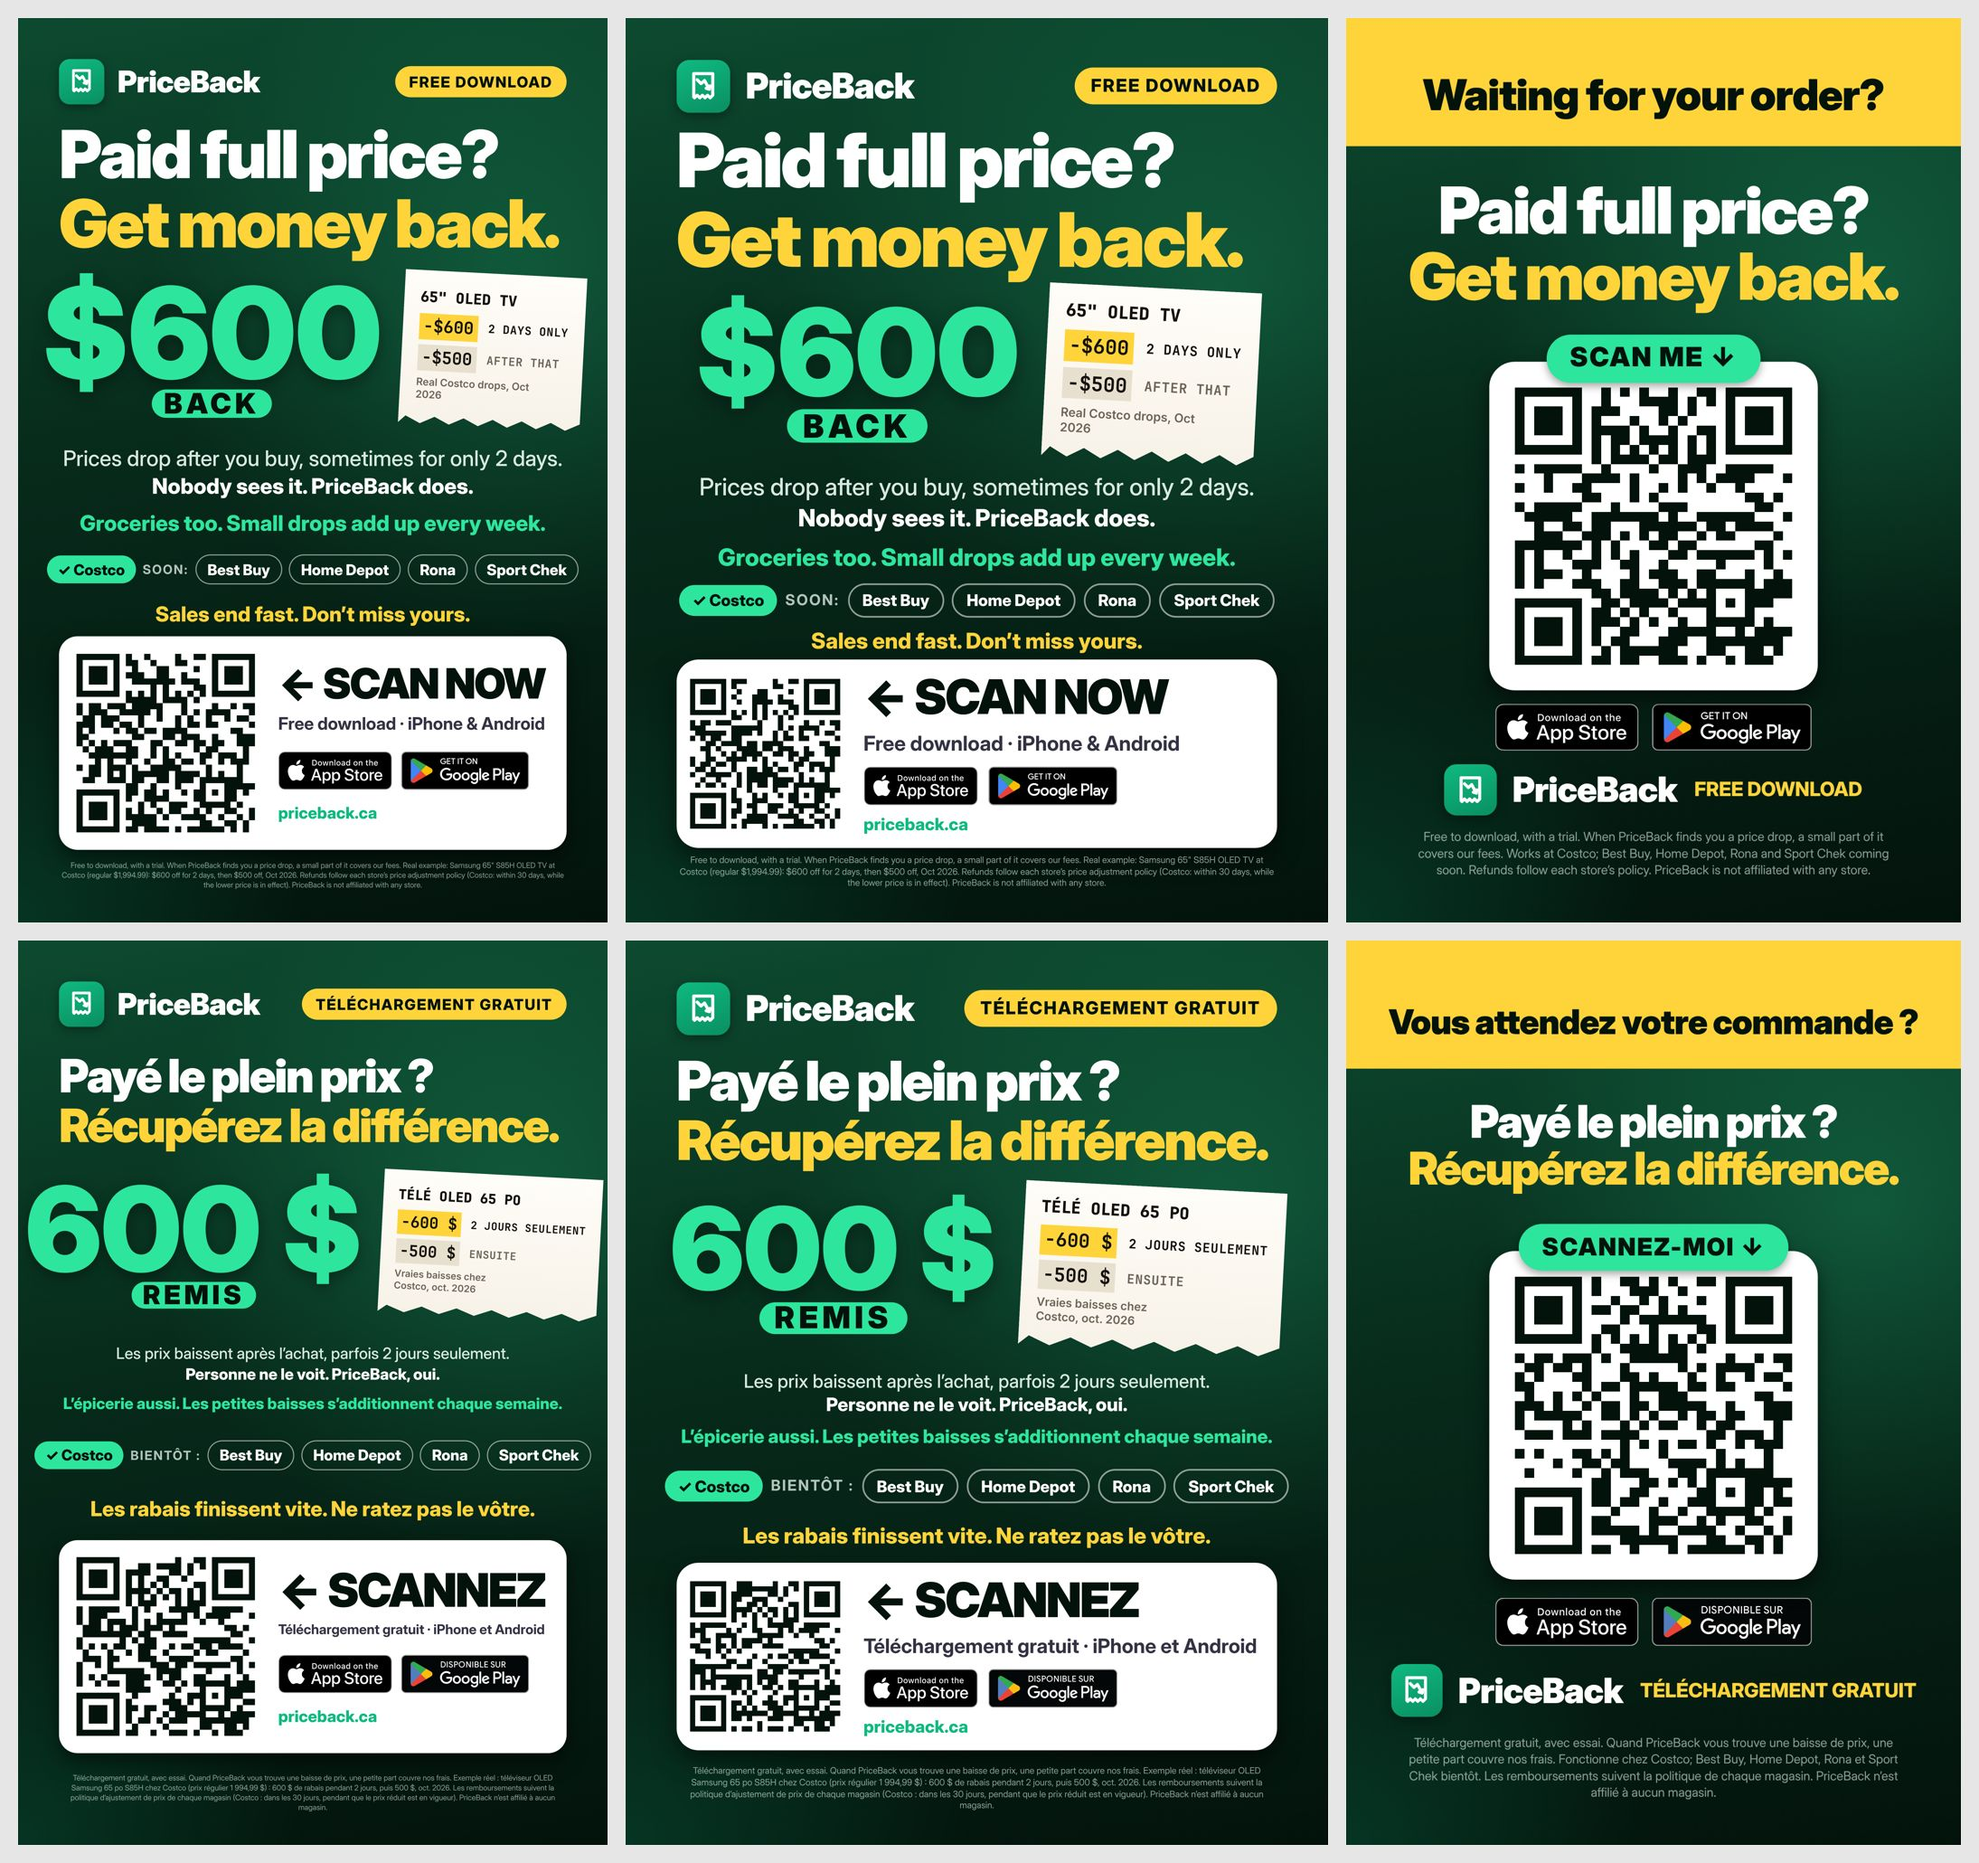
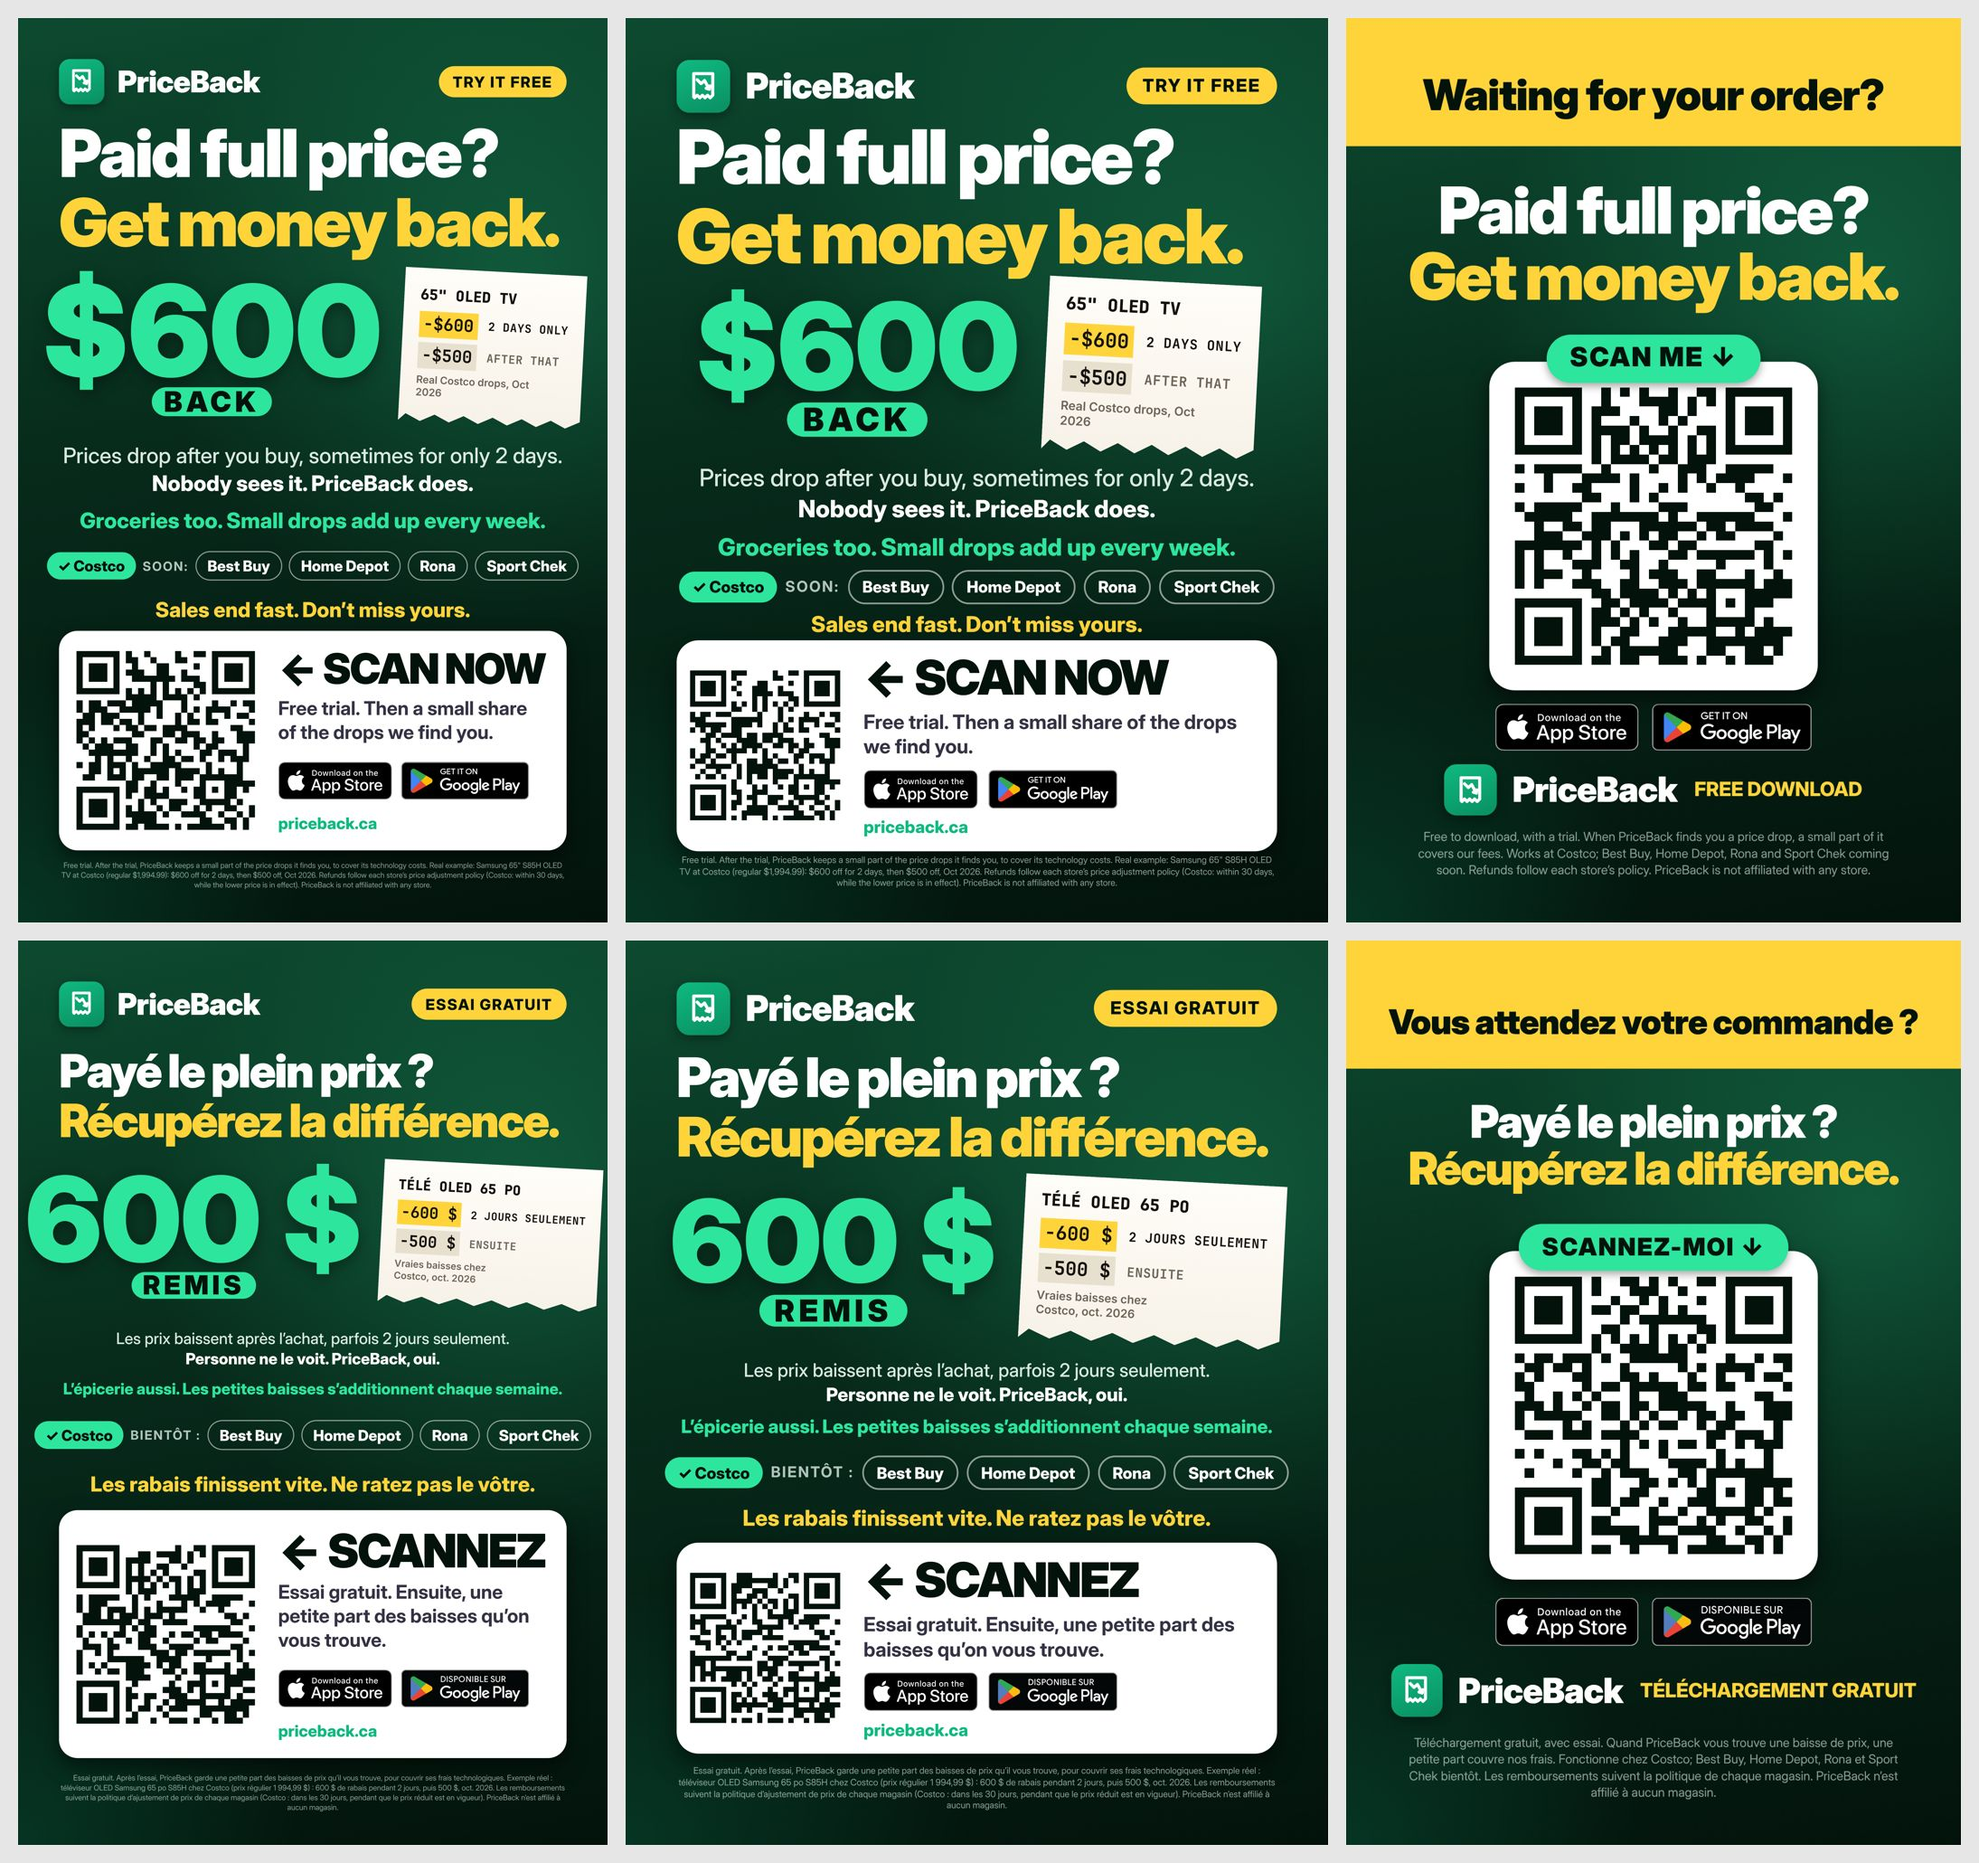
Print posters: 'Try it free' + the post-trial cost next to the QR
Monica worried 'free download' would earn bad reviews once people meet
the price after the trial. The big posters now say TRY IT FREE and, by
the QR, 'Free trial. Then a small share of the drops we find you.'

Claude-Session: https://claude.ai/code/session_01VjE6kdCs1VFyQDRanHW4T3

diff --git a/sm-content/12-print-posters/render.js b/sm-content/12-print-posters/render.js
@@ -18,7 +18,9 @@ const MARK = (c = "#fff") => `<svg viewBox="0 0 48 48" fill="none" stroke="${c}"
 
 const T = {
   en: {
-    free: "FREE DOWNLOAD",
+    free: "FREE DOWNLOAD", tryIt: "TRY IT FREE",
+    pScan2: "Free trial. Then a small share of the drops we find you.",
+    pModel: "Free trial. After the trial, PriceBack keeps a small part of the price drops it finds you, to cover its technology costs.",
     model: "Free to download, with a trial. When PriceBack finds you a price drop, a small part of it covers our fees.",
     h1: "Paid full price?", h2: "Get money back.",
     rcHead: "RECEIPT CHECK", rcItem: "65\" OLED TV", rcPaid: "PAID", rcPaidV: "$1,994.99", rcNow: "NOW", rcNowV: "$1,494.99", rcDrop: "PRICE DROP", rcDropV: "-$500.00",
@@ -36,7 +38,9 @@ const T = {
     cfine: "Works at Costco; Best Buy, Home Depot, Rona and Sport Chek coming soon. Refunds follow each store’s policy. PriceBack is not affiliated with any store.",
   },
   fr: {
-    free: "TÉLÉCHARGEMENT GRATUIT",
+    free: "TÉLÉCHARGEMENT GRATUIT", tryIt: "ESSAI GRATUIT",
+    pScan2: "Essai gratuit. Ensuite, une petite part des baisses qu’on vous trouve.",
+    pModel: "Essai gratuit. Après l’essai, PriceBack garde une petite part des baisses de prix qu’il vous trouve, pour couvrir ses frais technologiques.",
     model: "Téléchargement gratuit, avec essai. Quand PriceBack vous trouve une baisse de prix, une petite part couvre nos frais.",
     h1: "Payé le plein prix ?", h2: "Récupérez la différence.",
     rcHead: "VÉRIF. DE REÇU", rcItem: "TÉLÉ OLED 65 PO", rcPaid: "PAYÉ", rcPaidV: "1 994,99 $", rcNow: "MAINTENANT", rcNowV: "1 494,99 $", rcDrop: "BAISSE", rcDropV: "-500,00 $",
@@ -133,13 +137,13 @@ html{font-size:${wIn / 100}in}
 .qr{width:${tall ? 31 : 22}rem;height:${tall ? 31 : 22}rem;flex:none}
 .cta{flex:1;min-width:0}
 .cta .s1{font-weight:900;font-size:${tall ? 9.4 : 7}rem;letter-spacing:-.03em;line-height:1;color:#03130c;white-space:nowrap}
-.cta .s2{font-weight:700;font-size:${tall ? 3.3 : 3}rem;color:#334;margin-top:1.4rem;white-space:nowrap}
+.cta .s2{font-weight:700;font-size:${tall ? 3.3 : 2.9}rem;color:#334;margin-top:1.2rem;line-height:1.25}
 .badges{gap:1.6rem;margin-top:${tall ? 3 : 1.6}rem}
 .badges img{height:${tall ? 6.6 : 5.6}rem;width:auto}
 .cta .url{font-weight:800;font-size:${tall ? 2.8 : 2.5}rem;color:var(--green);margin-top:${tall ? 2.4 : 1.2}rem}
 .fine{font-size:${Math.max(1.3, 6 / 72 / (wIn / 100))}rem;margin-top:-${tall ? 1 : 0.6}rem}
 </style></head><body><div class="page"><div class="inner">
-<div class="top"><div class="brand"><span class="tile">${MARK()}</span>PriceBack</div><div class="pill">${t.free}</div></div>
+<div class="top"><div class="brand"><span class="tile">${MARK()}</span>PriceBack</div><div class="pill">${t.tryIt}</div></div>
 <div class="head"><div class="h1">${t.h1}</div><div class="h2">${t.h2}</div></div>
 <div class="hero">
   <div class="big"><div class="n">${t.stamp1}</div><div class="b">${t.stamp2}</div></div>
@@ -149,10 +153,10 @@ html{font-size:${wIn / 100}in}
 <div class="stores"><span class="chip now">✓ Costco</span><span class="lbl">${t.soon}</span>${t.stores.map((x) => `<span class="chip soon">${x}</span>`).join("")}</div>
 <div class="urgent">${t.urgent}</div>
 <div class="card"><div class="qr">${qr}</div>
-  <div class="cta"><div class="s1">← ${t.scan}</div><div class="s2">${t.scan2}</div>
+  <div class="cta"><div class="s1">← ${t.scan}</div><div class="s2">${t.pScan2}</div>
     <div class="badges"><img src="${APPLE}"><img src="${GP[lang]}"></div>
     <div class="url">priceback.ca</div></div></div>
-<div class="fine">${t.model} ${t.fine}</div>
+<div class="fine">${t.pModel} ${t.fine}</div>
 </div></div></body></html>`;
 }
 
@@ -215,7 +219,7 @@ const qrSvg = async (url) =>
     const info = await page.evaluate(() => {
       const inner = document.querySelector(".inner");
       const avail = (el) => { const cs = getComputedStyle(el.parentElement); return el.parentElement.clientWidth - parseFloat(cs.paddingLeft) - parseFloat(cs.paddingRight); };
-      const autofit = () => { for (const el of document.querySelectorAll(".h1,.h2,.kick,.stores,.cta .s1,.cta .s2,.sub")) {
+      const autofit = () => { for (const el of document.querySelectorAll(".h1,.h2,.kick,.stores,.cta .s1,.sub")) {
         const max = avail(el); const w = el.scrollWidth;
         if (w > max) el.style.fontSize = parseFloat(getComputedStyle(el).fontSize) * (max / w) * 0.985 + "px";
       } };

diff --git a/sm-content/12-print-posters/README.md b/sm-content/12-print-posters/README.md
@@ -2,7 +2,9 @@
 
 **Design (v2, after Monica's review):** PriceBack green, not the Costco look. Hook "Paid full price? / Get money back." (FR "Payé le plein prix ? / Récupérez la différence."), hero **$600 BACK** from a real Costco drop (Samsung 65" S85H OLED TV, regular $1,994.99: $600 off for only 2 days, then $500 off when the saving was extended, Oct 2026, per Monica). Story line: "Prices drop after you buy, sometimes for only 2 days. Nobody sees it. PriceBack does.", a store strip (Costco now; Best Buy, Home Depot, Rona, Sport Chek coming soon, matching `src/constants/stores.js`), an urgency line and one big QR card. The App Store and Google Play badges are cropped to their artwork and set to one height. A mint line adds "Groceries too. Small drops add up every week." so shoppers know it is not only for big buys. **The counter sign has its own minimal layout** (Monica: the poster layout does not suit a mini tabletop sign): yellow "Waiting for your order?" band, the hook, one big QR, the two badges, the logo and fine print. No $600 proof and no store chips on it.
 
-**Pricing wording (Monica, 2026-11-02):** the app is not free. Say "free download" only, never "free app" or "free". Every piece carries the fine print "Free to download, with a trial. When PriceBack finds you a price drop, a small part of it covers our fees." (FR "Téléchargement gratuit, avec essai. Quand PriceBack vous trouve une baisse de prix, une petite part couvre nos frais.").
+**Pricing wording on the big posters (2026-11-02, latest):** Monica worried "free download" would earn bad reviews from people who discover the price after the trial. The big posters now say "TRY IT FREE" / "ESSAI GRATUIT" and, right next to the QR, "Free trial. Then a small share of the drops we find you." (FR "Essai gratuit. Ensuite, une petite part des baisses qu’on vous trouve."), so the cost is known before anyone downloads. The counter sign still says "free download" until Monica confirms the new wording there.
+
+**Earlier pricing wording (Monica, 2026-11-02):** the app is not free. Say "free download" only, never "free app" or "free". Every piece carries the fine print "Free to download, with a trial. When PriceBack finds you a price drop, a small part of it covers our fees." (FR "Téléchargement gratuit, avec essai. Quand PriceBack vous trouve une baisse de prix, une petite part couvre nos frais.").
 
 EN and FR are in separate folders. Every file includes a 0.125" bleed on every side; text stays at least 0.3" inside the trim.
 
@@ -11,6 +13,8 @@ EN and FR are in separate folders. Every file includes a 0.125" bleed on every s
 | `PriceBack-poster-11x17-<lang>` | 11 × 17 in (tabloid) | **Recommended** for community boards, gym and café walls, grocery entrances. About twice the area of letter, readable from 3 to 4 m | `poster17-<lang>` |
 | `PriceBack-poster-8.5x11-<lang>` | 8.5 × 11 in (letter) | Small boards, doors, windows, places that only accept letter size | `poster11-<lang>` |
 | `PriceBack-counter-4x6-<lang>` | 4 × 6 in, portrait | Pharmacy counter, in a clear acrylic sign holder (L or T stand) | `counter-<lang>` |
+
+Earlier designs are kept in `earlier-designs/` (see its README).
 
 ## Printing
 - Print shop: send the PDF and ask for "full bleed, trim to size". Matte or satin cardstock (80–100 lb cover) for posters; 14–16 pt card for the counter insert.
